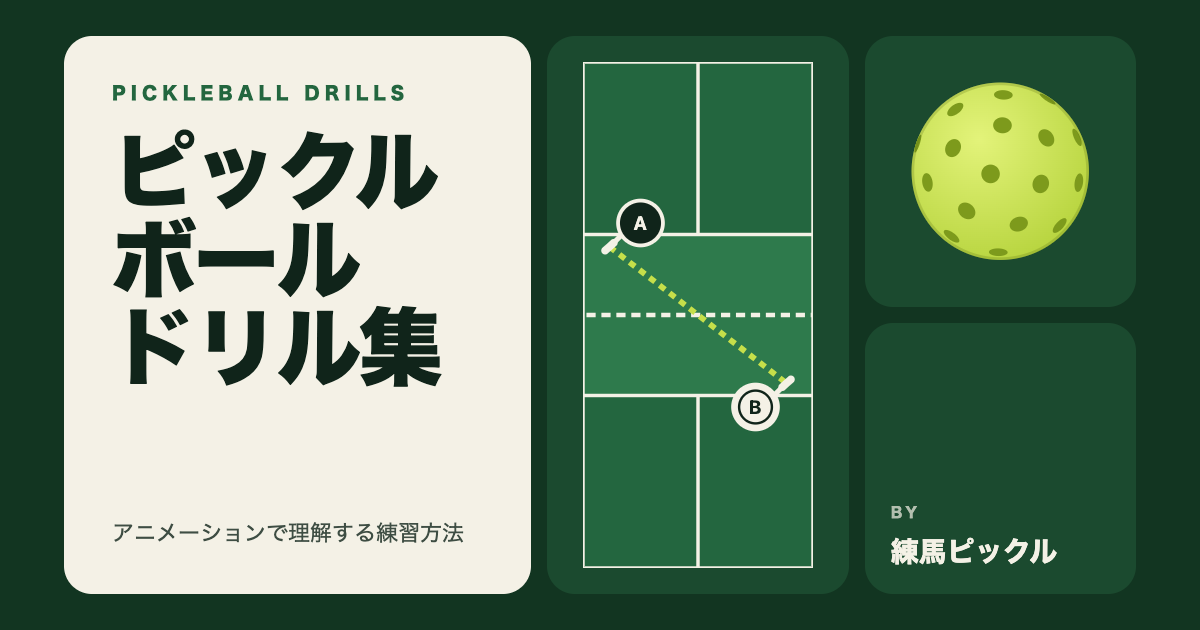
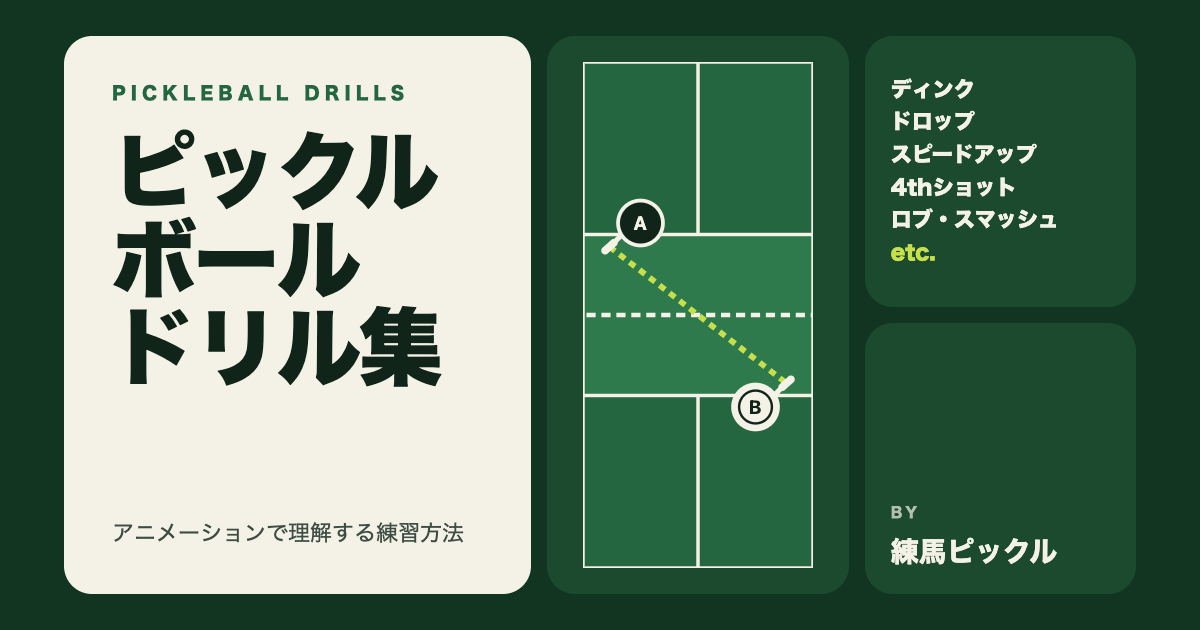
Site share preview: list the drill categories (with etc.) instead of the ball
Claude-Session: https://claude.ai/code/session_013HpVCq95JLREtWQF64J4S6

Changed region(s): [[0.74, 0.1206, 0.925, 0.4222]]

diff --git a/docs/decisions.md b/docs/decisions.md
@@ -93,3 +93,4 @@
 - トップページと練習メニューの説明文（メタ情報）を、共有画像の文言「アニメーションで理解する練習方法」に合わせて書き直した（書き手が3案から選んだ）。画像と説明文で言うことをそろえるため。
 - 共有画像の外側の余白を、左右 64px・上下 36px に広げた（src/config/og.ts の padX・padY）。LINE はカードの形に合わせて左右を少し切り（1200px 幅で片側40px ほど）、余白が 28px のときはタイルの端が切れていたため（書き手が LINE で確かめた）。
 - 共有画像の URL の後ろに、画像の材料の指紋を付けた（`/og/site.png?v=xxxxxxxx`）。LINE も X も推奨の大きさを公式には出しておらず、OGP の考え方を決めた Meta の資料では、1200×630・1.91:1 が推奨で、画像は URL ごとに覚え、差し替えたら新しい URL にしないと更新されない、とあるため。大きさは 1200×630 のままにする（X に合わせて 2:1 にすると LINE で左右が多く切れる）。
+- 共通の共有画像の右上のタイルを、ボールの絵から、ドリルがあるカテゴリの名前の一覧に替えた（書き手が4案から選んだ）。全部ではないと分かるように、最後に etc. を付ける。名前はデータから並べ、5つまで出す。ボールは題名とコートの図で伝わり、飾りの役しかしていなかったため。
